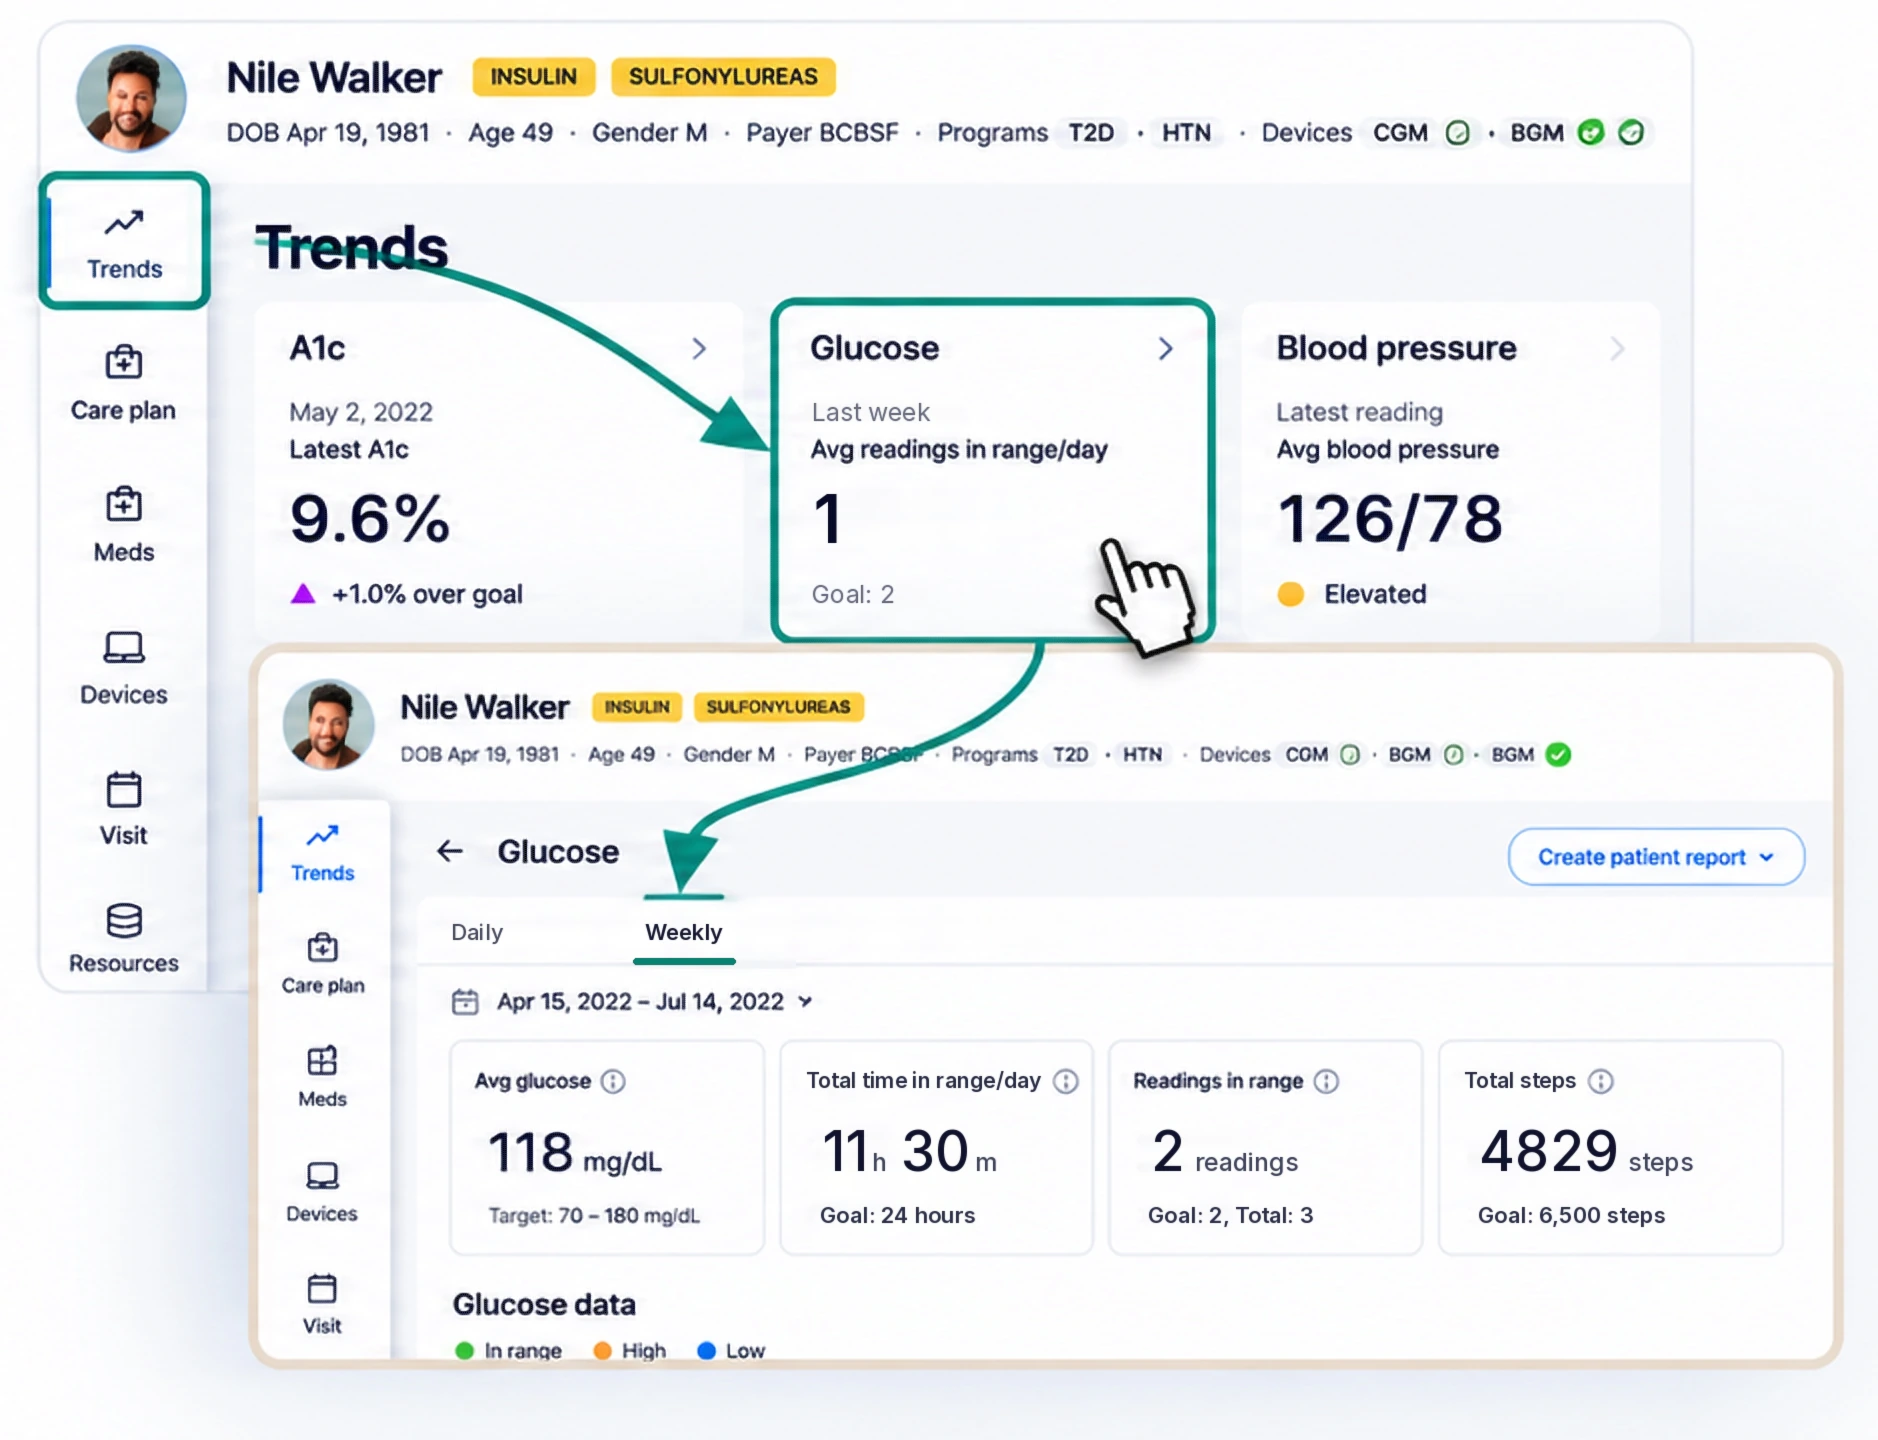
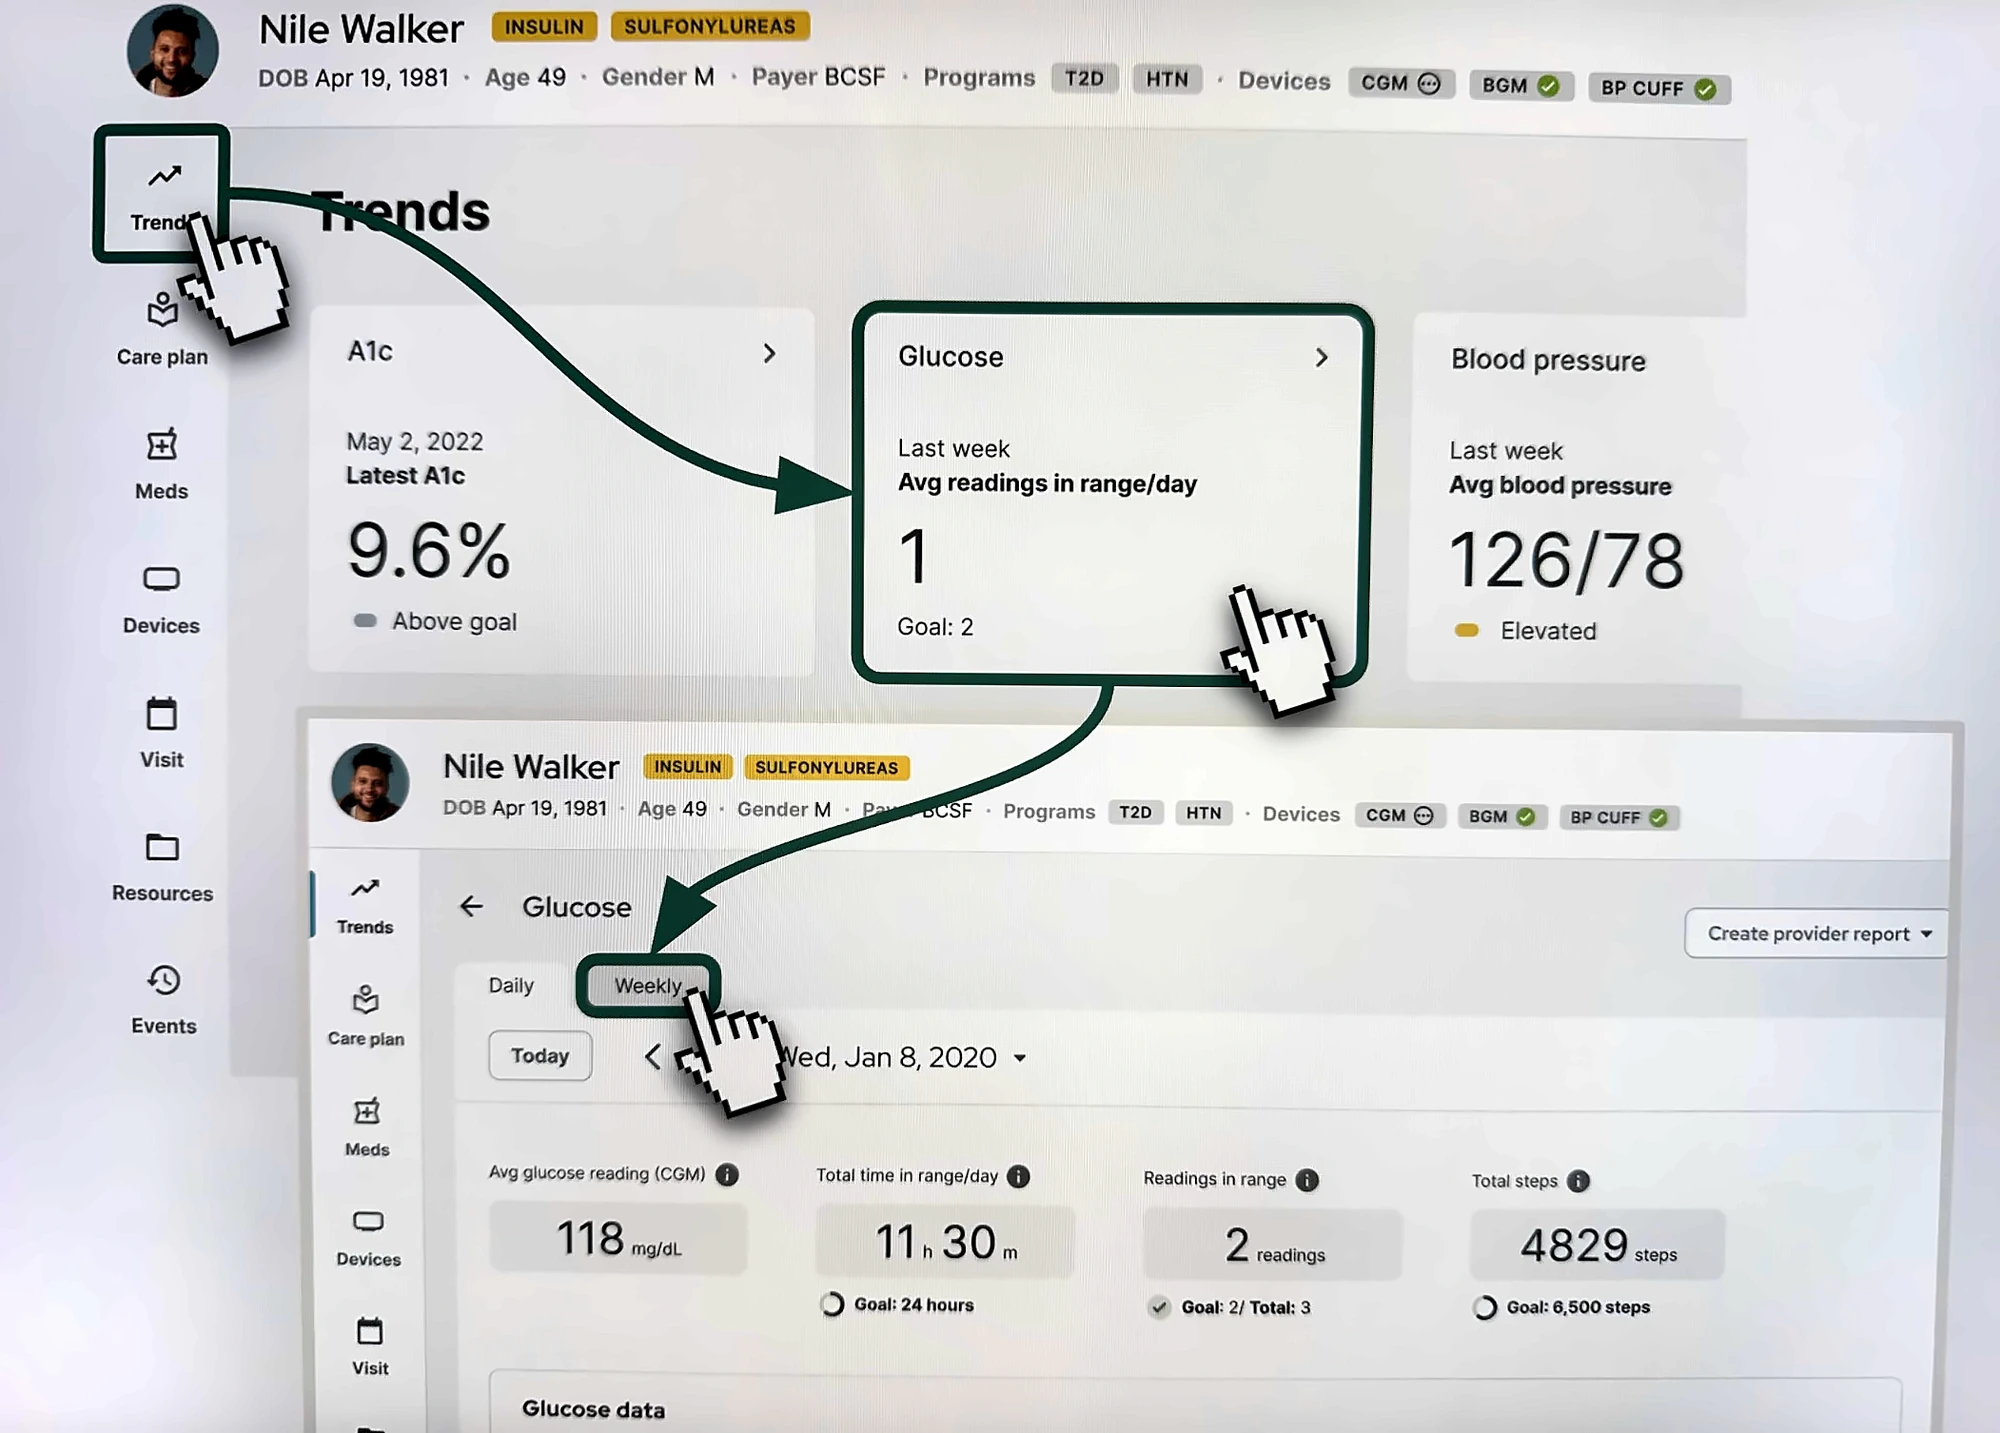
Add files via upload

diff --git a/adisa-soren-portfolio/lightpath.html b/adisa-soren-portfolio/lightpath.html
@@ -295,7 +295,7 @@
         </div>
         <div class="grid console">
           <figure class="console__fig span-8">
-            <a href="assets/img/console-care-plan.webp" target="_blank" rel="noopener" aria-label="Open the care plan screenshot at full size"><img src="assets/img/console-care-plan.webp" width="2000" height="1199" loading="lazy" alt="The care console's Care Plan screen for an example member. A member summary lists critical attributes (insulin, CGM), program conditions (hypertension, type 2 diabetes), motivators and strengths, barriers and a scratchpad, with a Goals section below. The left rail links to Trends, Care plan, Meds, Devices, Visit and Resources."></a>
+            <a href="assets/img/console-care-plan.webp" target="_blank" rel="noopener" aria-label="Open the care plan screenshot at full size"><img src="assets/img/console-care-plan.webp" width="2000" height="1138" loading="lazy" alt="The care console's Care Plan screen for an example member: a header with medication flags (insulin, sulfonylureas), programs (T2D, HTN) and connected devices (CGM, BGM). The member summary lists critical attributes, program conditions, motivators and strengths, barriers and a scratchpad, with Manage summary and Goals below. The left rail, highlighted, links to Trends, Care plan, Meds, Devices, Visit and Resources."></a>
           </figure>
           <div class="console__text stack span-4 start-9">
             <h3>Care plan</h3>
@@ -308,13 +308,13 @@
       <div class="group">
         <div class="grid console">
           <figure class="console__fig span-8">
-            <a href="assets/img/console-trends.webp" target="_blank" rel="noopener" aria-label="Open the trends screenshot at full size"><img src="assets/img/console-trends.webp" width="1878" height="1440" loading="lazy" alt="Two care console screens joined by arrows. Trends shows tiles for A1c (9.6%, 1.0% over goal), glucose (last week, 1 reading in range per day against a goal of 2) and blood pressure (126/78, elevated). Clicking the glucose tile opens a Glucose view with daily and weekly tabs: average glucose 118 mg/dL against a 70 to 180 target, total time in range of 11 hours 30 minutes a day against a goal of 24 hours, 2 readings in range out of 3 against a goal of 2, and 4,829 steps against a goal of 6,500, with a Create patient report button."></a>
+            <a href="assets/img/console-trends.webp" target="_blank" rel="noopener" aria-label="Open the trends screenshot at full size"><img src="assets/img/console-trends.webp" width="2000" height="1433" loading="lazy" alt="Two care console screens joined by arrows. Trends shows tiles for A1c (9.6%, above goal), glucose (last week, 1 reading in range per day against a goal of 2) and blood pressure (last week, 126/78, elevated). Clicking the glucose tile opens a Glucose view with Daily and Weekly tabs: average CGM glucose of 118 mg/dL, total time in range of 11 hours 30 minutes a day against a goal of 24 hours, 2 readings in range against a goal of 2 out of 3, and 4,829 steps against a goal of 6,500, with a Create provider report button."></a>
           </figure>
           <div class="console__text stack span-4 start-9">
             <h3>From a trend to the readings behind it</h3>
-            <p>Trends lead with A1c, glucose and blood pressure, each against the member’s goal. One click opens glucose by day or week: average glucose against target, time and readings in range, steps, and a patient report.</p>
+            <p>Trends lead with A1c, glucose and blood pressure, each against the member’s goal. One click opens glucose by day or week: average CGM glucose, time and readings in range, and steps, each against its goal, with a provider report a click away.</p>
             <p>This click-through is the prep the LLM record summary was built to shorten.</p>
-            <p class="t-small">Illustrative member data. Select an image to see it full size.</p>
+            <p class="t-small">Screens from the care console, with illustrative member data. Select an image to see it full size.</p>
           </div>
         </div>
       </div>
